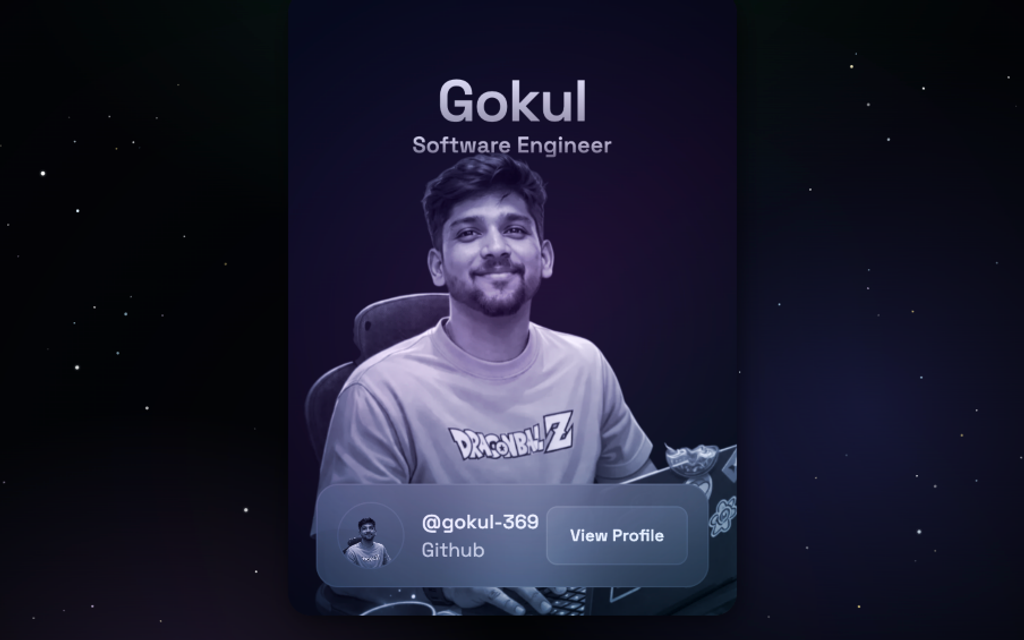
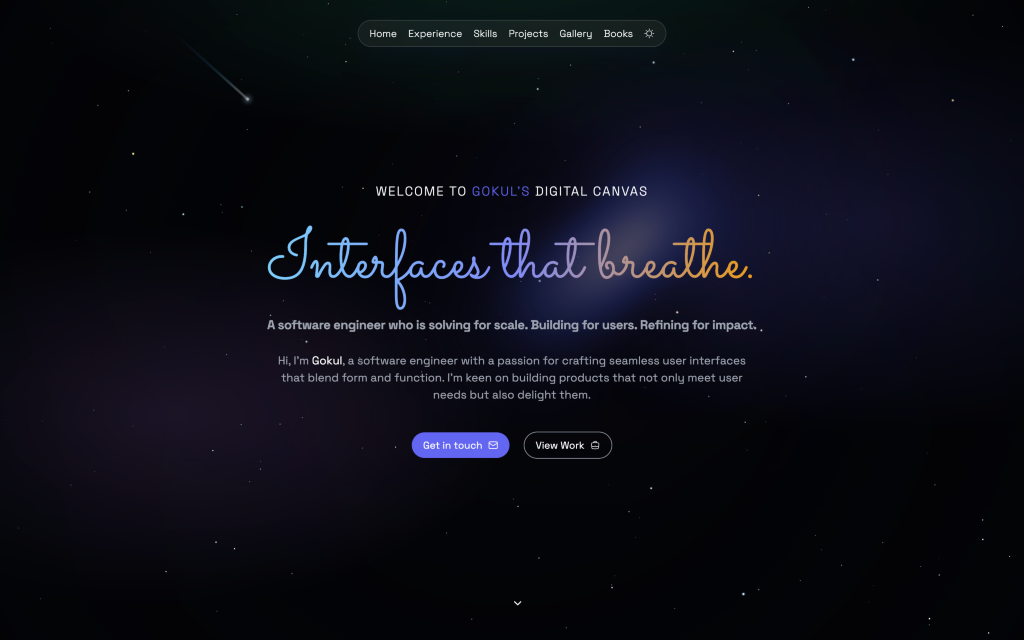
release: balance dashboard grid to 1 row, restore hero thumbnail, and update vigilens to native dark mode

diff --git a/src/components/Dashboard/index.tsx b/src/components/Dashboard/index.tsx
@@ -232,14 +232,14 @@ function Dashboard({ theme: _theme }: { theme?: ThemeClassSet }) {
           </SpotlightCard>
         </div>
 
-        {/* CARD: 3D Orbital Hardware & Projects (Full width banner) */}
-        <div className="col-span-1 md:col-span-2 lg:col-span-3">
+        {/* CARD: 3D Production Systems & Projects (2 columns on desktop) */}
+        <div className="col-span-1 md:col-span-1 lg:col-span-2">
           <SpotlightCard
-            className="h-full rounded-3xl p-7 sm:p-8 border border-slate-200/80 dark:border-white/10 bg-white/70 dark:bg-white/[0.03] backdrop-blur-xl hover:border-sky-400 hover:shadow-[0_4px_20px_rgba(56,189,248,0.15)] flex flex-col sm:flex-row items-start sm:items-center justify-between gap-6 transition-all duration-300"
+            className="h-full rounded-3xl p-6 sm:p-8 border border-slate-200/80 dark:border-white/10 bg-white/70 dark:bg-white/[0.03] backdrop-blur-xl hover:border-sky-400 hover:shadow-[0_4px_20px_rgba(56,189,248,0.15)] flex flex-col justify-between transition-all duration-300"
             spotlightColor="rgba(56, 189, 248, 0.45)"
           >
-            <div className="flex-1">
-              <div className="flex items-center gap-3 pb-3 border-b border-slate-200/60 dark:border-white/[0.08]">
+            <div>
+              <div className="flex items-center justify-between pb-3 border-b border-slate-200/60 dark:border-white/[0.08]">
                 <span className="font-mono text-xs uppercase tracking-wider text-sky-600 dark:text-sky-400 font-semibold">
                   // PRODUCTION SYSTEMS & INFRASTRUCTURE
                 </span>
@@ -249,42 +249,39 @@ function Dashboard({ theme: _theme }: { theme?: ThemeClassSet }) {
                 </span>
               </div>
 
-              <div className="mt-4 flex flex-col sm:flex-row sm:items-baseline gap-2 sm:gap-4">
-                <h3 className="font-space text-2xl font-bold tracking-tight text-slate-900 dark:text-white">
-                  Featured Projects & Systems
-                </h3>
-                <p className="font-caveat text-xl text-sky-600 dark:text-sky-400">
-                  "Architecture built for endurance, deployed to scale."
-                </p>
-              </div>
-
-              <p className="mt-2 text-xs sm:text-sm text-slate-600 dark:text-slate-300 max-w-2xl leading-relaxed">
+              <h3 className="font-space text-2xl font-bold tracking-tight text-slate-900 dark:text-white mt-4">
+                Featured Projects & Systems
+              </h3>
+              <p className="mt-2 font-caveat text-xl text-sky-600 dark:text-sky-400">
+                "Architecture built for endurance, deployed to scale."
+              </p>
+              <p className="mt-1 text-sm text-slate-600 dark:text-slate-300 max-w-xl leading-relaxed">
                 Explore VigiLens (full-stack endpoint tracking & isolated database architecture) and hardened Oracle Cloud (OCI) VPS infrastructure running Dokploy. View live project canvases in 3D.
               </p>
             </div>
 
-            <div className="flex items-center gap-4 flex-shrink-0">
+            <div className="mt-6 flex items-center justify-between">
               <HashLink
                 to={manifest.projects}
                 scroll={scrollWithLenis}
-                className="inline-flex items-center gap-2 px-6 py-3 rounded-2xl bg-gradient-to-r from-sky-500 to-indigo-600 hover:from-sky-400 hover:to-indigo-500 text-white font-mono text-xs font-semibold shadow-md shadow-sky-500/25 transition-all group cursor-pointer"
+                className="inline-flex items-center gap-2 text-xs font-mono font-medium text-sky-600 dark:text-sky-400 hover:text-sky-700 dark:hover:text-sky-300 transition-colors cursor-pointer group"
               >
                 <span>View 3D Projects</span>
-                <MdArrowRightAlt className="text-base group-hover:translate-x-1.5 transition-transform" />
+                <MdArrowRightAlt className="text-lg group-hover:translate-x-1.5 transition-transform" />
               </HashLink>
-              <HiOutlineRadio className="h-8 w-8 sm:h-10 sm:w-10 text-sky-500/40 block flex-shrink-0" />
+              <HiOutlineRadio className="h-8 w-8 text-sky-500/30" />
             </div>
           </SpotlightCard>
         </div>
 
-        {/* CARD 6: 3D Literary Codex / Reading Shelf (Full width banner matching Card 7) */}
-        <div className="col-span-1 md:col-span-2 lg:col-span-3">
+        {/* CARD 6: 3D Literary Codex / Reading Shelf (1 column, sharing row with Projects) */}
+        <div className="col-span-1 md:col-span-1 lg:col-span-1">
           <SpotlightCard
-            className="h-full rounded-3xl p-7 sm:p-8 border border-slate-200/80 dark:border-white/10 bg-white/70 dark:bg-white/[0.03] backdrop-blur-xl hover:border-indigo-400 hover:shadow-[0_4px_20px_rgba(99,102,241,0.12)] flex flex-col sm:flex-row items-start sm:items-center justify-between gap-6 transition-all duration-300"
+            className="h-full rounded-3xl p-7 border border-slate-200/80 dark:border-white/10 bg-white/70 dark:bg-white/[0.03] backdrop-blur-xl hover:border-indigo-400 hover:shadow-[0_4px_20px_rgba(99,102,241,0.12)] flex flex-col justify-between transition-all duration-300"
             spotlightColor="rgba(99, 102, 241, 0.45)"
           >
-            <div className="flex-1">
-              <div className="flex items-center gap-3 pb-3 border-b border-slate-200/60 dark:border-white/[0.08]">
+            <div>
+              <div className="flex items-center justify-between pb-3 border-b border-slate-200/60 dark:border-white/[0.08]">
                 <span className="font-mono text-xs uppercase tracking-wider text-indigo-600 dark:text-indigo-400 font-semibold">
                   // 06 · 3D LIBRARY
                 </span>
@@ -294,30 +291,27 @@ function Dashboard({ theme: _theme }: { theme?: ThemeClassSet }) {
                 </span>
               </div>
 
-              <div className="mt-4 flex flex-col sm:flex-row sm:items-baseline gap-2 sm:gap-4">
-                <h3 className="font-space text-2xl font-bold tracking-tight text-slate-900 dark:text-white">
-                  Literary Codex
-                </h3>
-                <p className="font-caveat text-xl text-indigo-600 dark:text-indigo-400">
-                  "Ideas that shaped how I think."
-                </p>
-              </div>
-
-              <p className="mt-2 text-xs sm:text-sm text-slate-600 dark:text-slate-300 max-w-2xl leading-relaxed">
-                A tactile 3D interactive bookshelf of existential classics, Russian literature, Eastern philosophy, and behavioral psychology.
+              <h3 className="font-space text-xl font-bold tracking-tight text-slate-900 dark:text-white mt-4">
+                Literary Codex
+              </h3>
+              <p className="mt-2 font-caveat text-xl text-indigo-600 dark:text-indigo-400">
+                "Ideas that shaped how I think."
+              </p>
+              <p className="mt-1 text-xs leading-relaxed text-slate-600 dark:text-slate-300">
+                A tactile 3D interactive bookshelf of existential classics, Russian literature, and Eastern philosophy.
               </p>
             </div>
 
-            <div className="flex items-center gap-4 flex-shrink-0">
+            <div className="mt-6 flex items-center justify-between">
               <HashLink
                 to={manifest.books}
                 scroll={scrollWithLenis}
-                className="inline-flex items-center gap-2 px-6 py-3 rounded-2xl bg-indigo-600 hover:bg-indigo-500 text-white font-mono text-xs font-semibold shadow-md shadow-indigo-500/25 transition-all group"
+                className="inline-flex items-center gap-2 text-xs font-mono font-medium text-indigo-600 dark:text-indigo-400 hover:text-indigo-700 dark:hover:text-indigo-300 transition-colors cursor-pointer group"
               >
                 <span>Enter 3D library</span>
-                <MdArrowRightAlt className="text-base group-hover:translate-x-1.5 transition-transform" />
+                <MdArrowRightAlt className="text-lg group-hover:translate-x-1.5 transition-transform" />
               </HashLink>
-              <IoBookOutline className="h-8 w-8 sm:h-10 sm:w-10 text-indigo-500/40 block flex-shrink-0" />
+              <IoBookOutline className="h-8 w-8 text-indigo-500/30" />
             </div>
           </SpotlightCard>
         </div>
